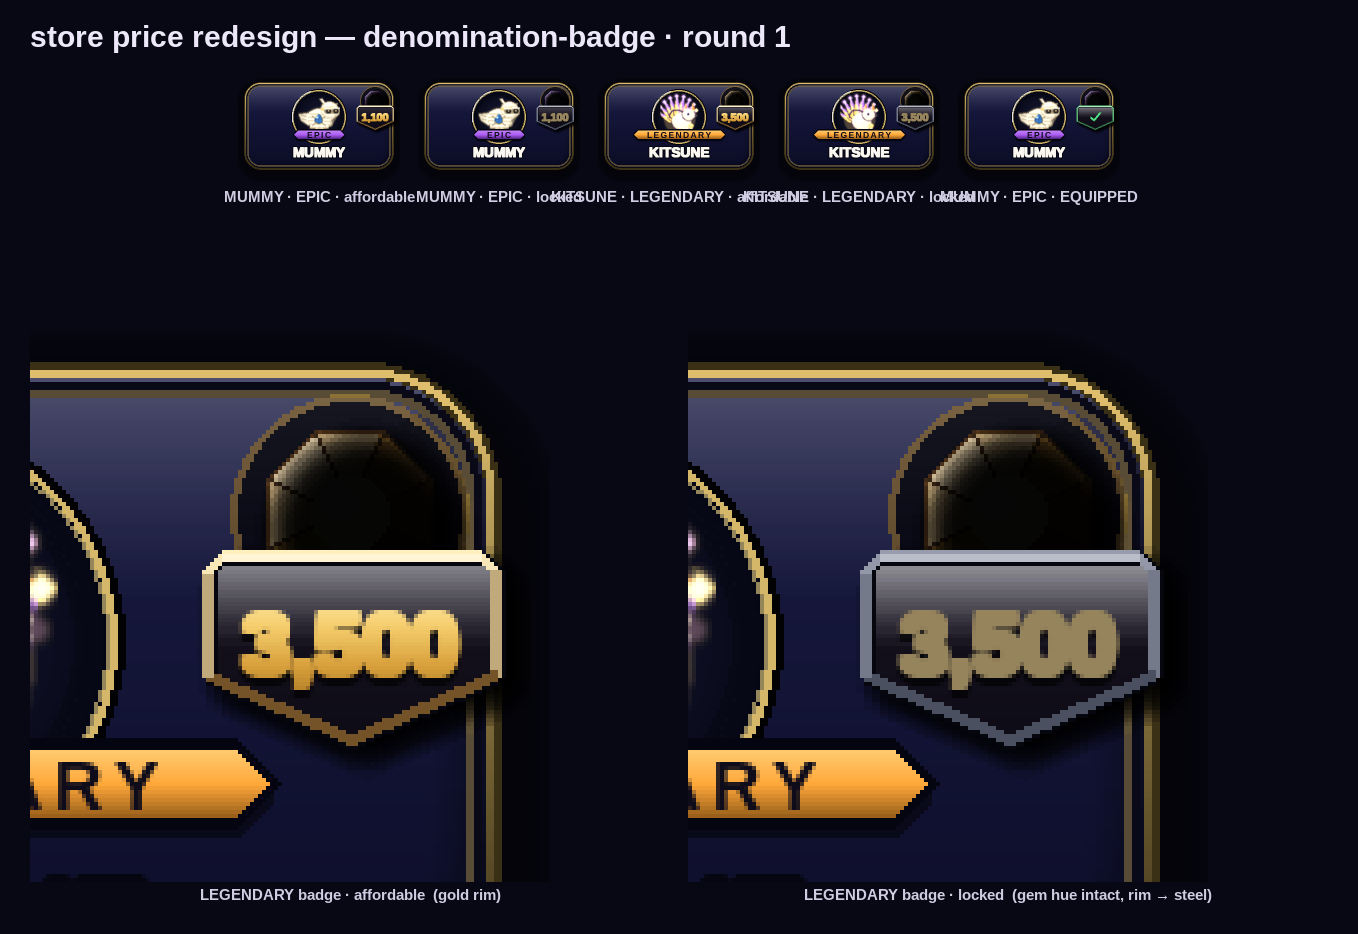
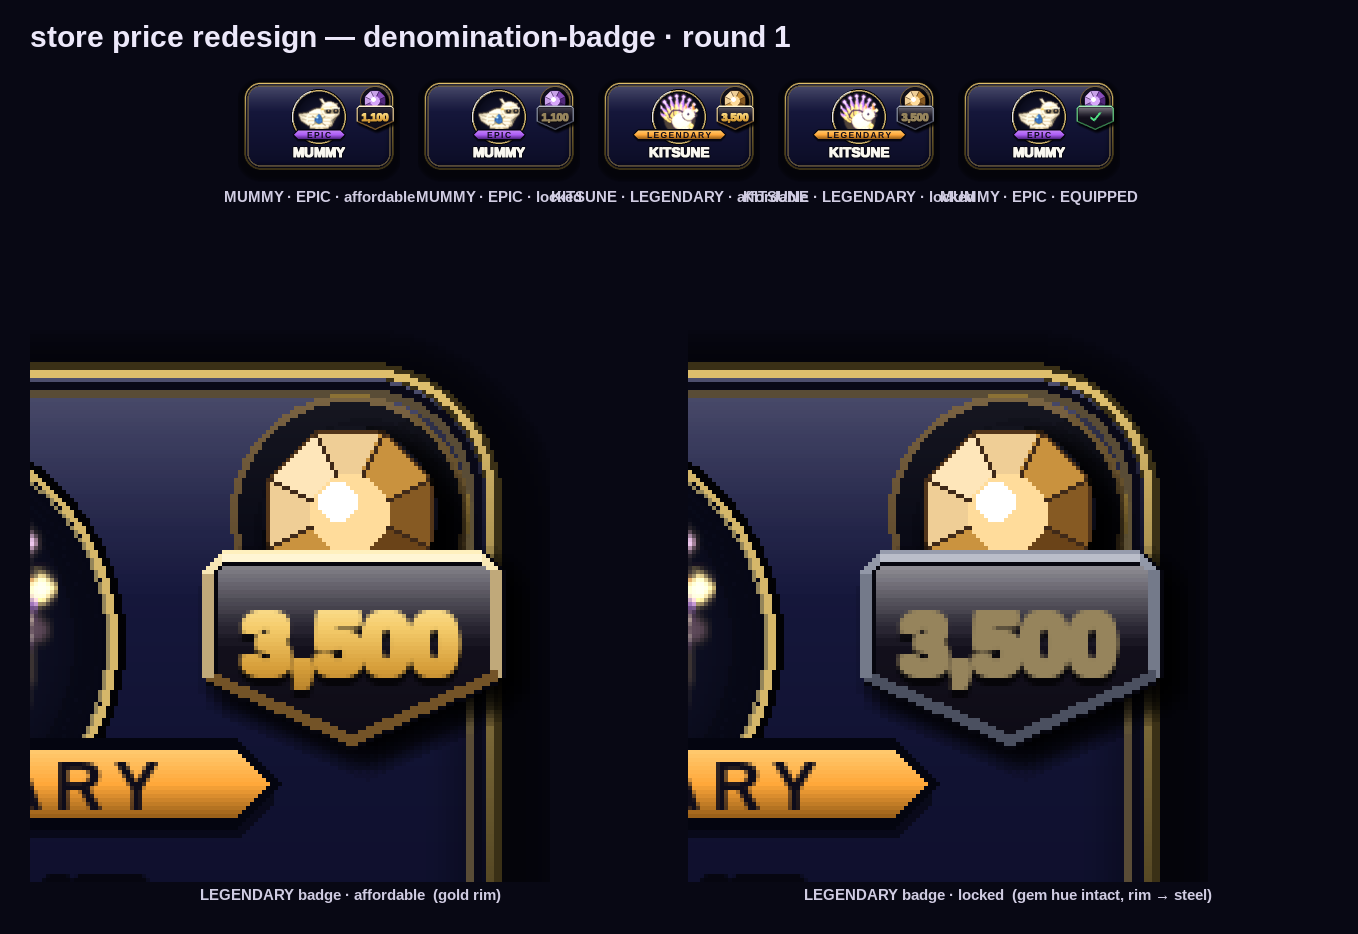
Add denomination-badge store-card price redesign — round 1
Fuse the crest tier gem and price into one heraldic emblem at the card's
top-right: the faceted tier gem is the crown, a dark shield plinth is struck
beneath it carrying the price in coin-metal relief. The plinth rim (not the
gem) carries affordability — warm gold when payable, cold steel when locked,
green with a mint check when equipped — so the tier hue stays the single
carrier of rarity. Skips the default bottom price chip. Review-only tooling.

Claude-Session: https://claude.ai/code/session_01DaGYw11VdAubog2VGiiucC

diff --git a/tools/_store_price_denomination_badge_r1.py b/tools/_store_price_denomination_badge_r1.py
@@ -82,6 +82,10 @@ def _badge_shadow(surf, gem_cx, gem_cy, gem_r, poly):
         tmp = sil.copy()
         tmp.set_alpha(a)
         soft.blit(tmp, (dx, dy))
+    # Punch the badge footprint back out so only the CAST fringe survives — the
+    # gem crown (already drawn) must stay visible, not be buried under its own
+    # shadow. The -m(2) shift cancels the +m(2) cast offset below.
+    soft.blit(sil, (-sc.m(2), -sc.m(2)), special_flags=pygame.BLEND_RGBA_SUB)
     surf.blit(soft, (minx + sc.m(2), miny + sc.m(2)))
 
 
@@ -262,11 +266,12 @@ def main():
     # plinth rim differs. Probe on the gem table + on the plinth top rim. ──
     afford_k = render_card_surf(KITSUNE, False, True)
     locked_k = render_card_surf(KITSUNE, False, False)
-    gem_a = tuple(afford_k.get_at((274, 44)))
-    gem_l = tuple(locked_k.get_at((274, 44)))
-    rim_a = tuple(afford_k.get_at((300, 74)))
-    rim_l = tuple(locked_k.get_at((300, 74)))
+    gem_a = tuple(afford_k.get_at((274, 50)))
+    gem_l = tuple(locked_k.get_at((274, 50)))
+    rim_a = tuple(afford_k.get_at((274, 61)))
+    rim_l = tuple(locked_k.get_at((274, 61)))
     assert gem_a == gem_l, f"gem hue changed with affordability: {gem_a} vs {gem_l}"
+    assert max(gem_a[:3]) > 120, f"gem crown buried (too dark): {gem_a}"
     assert rim_a != rim_l, f"plinth rim did not react to affordability: {rim_a}"
     print("gem hue afford/locked (must match):", gem_a, gem_l)
     print("plinth rim afford/locked (must differ):", rim_a, rim_l)
